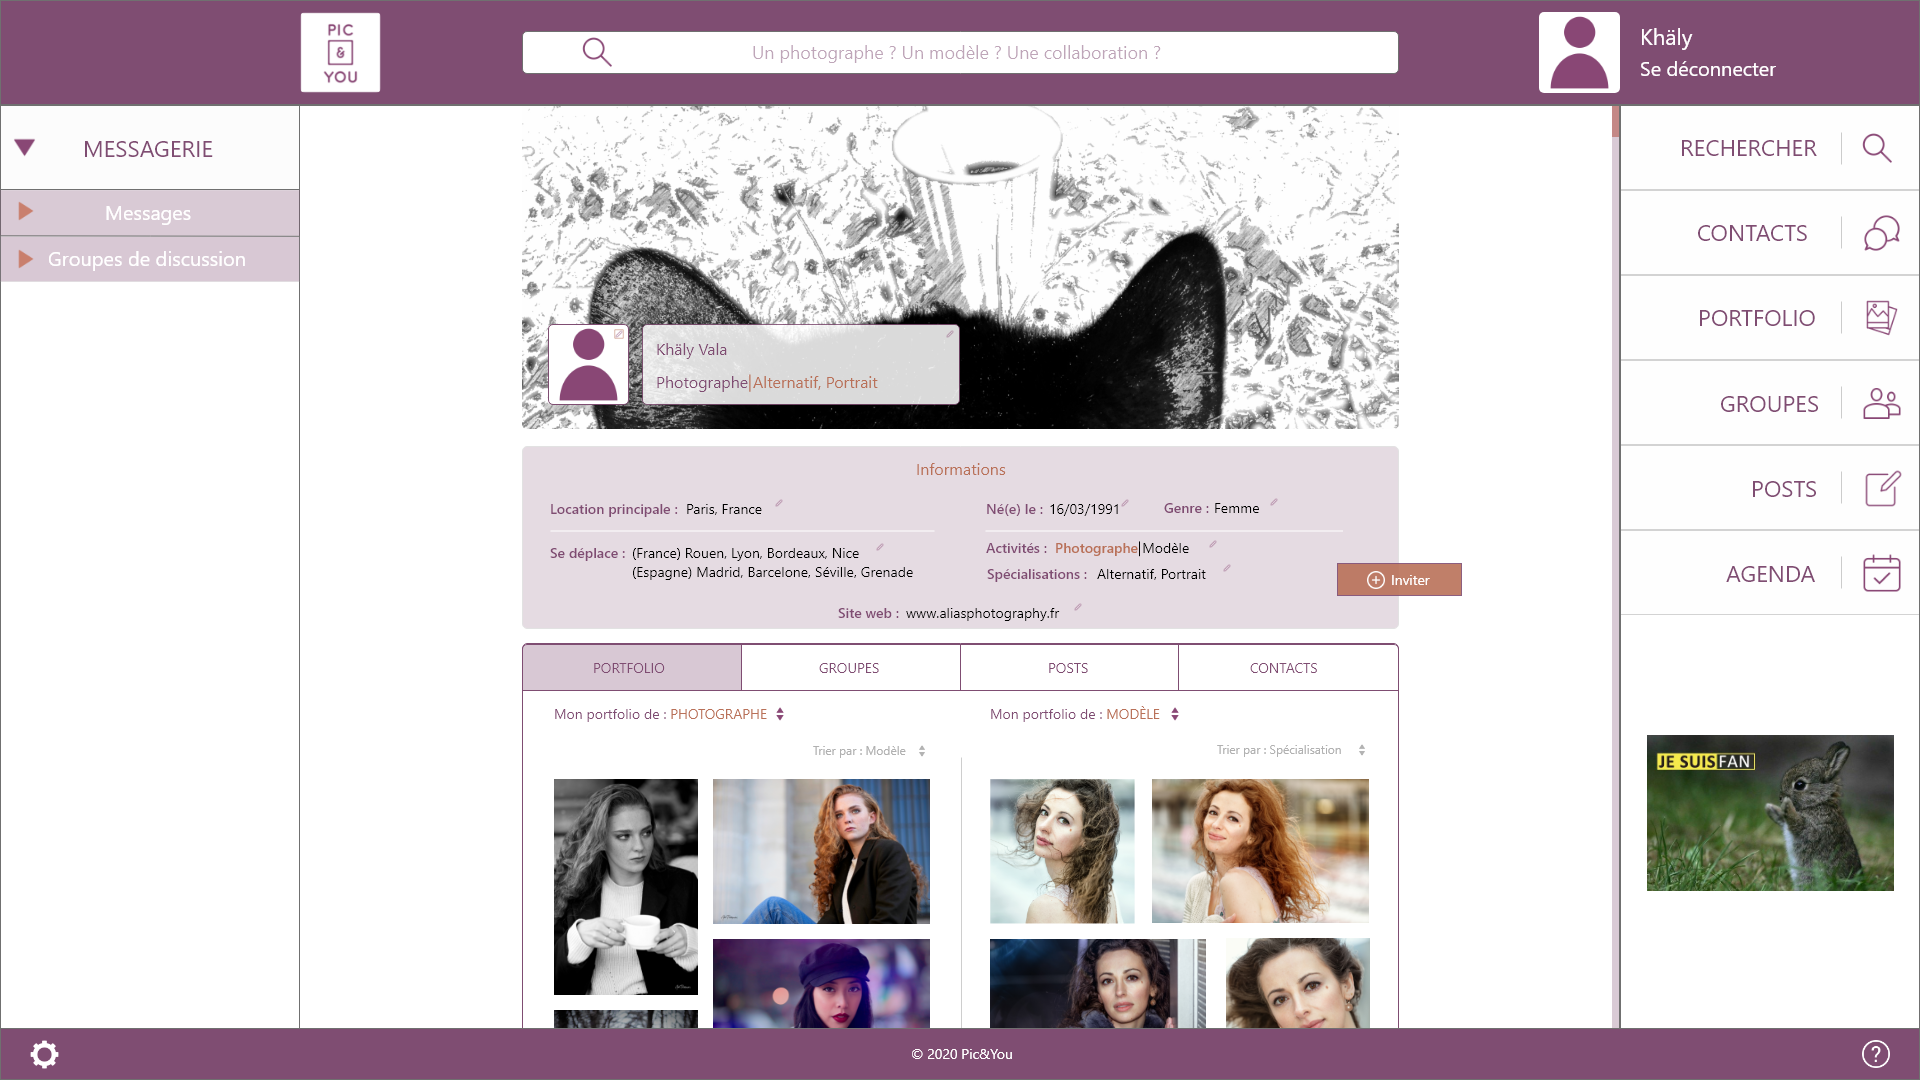
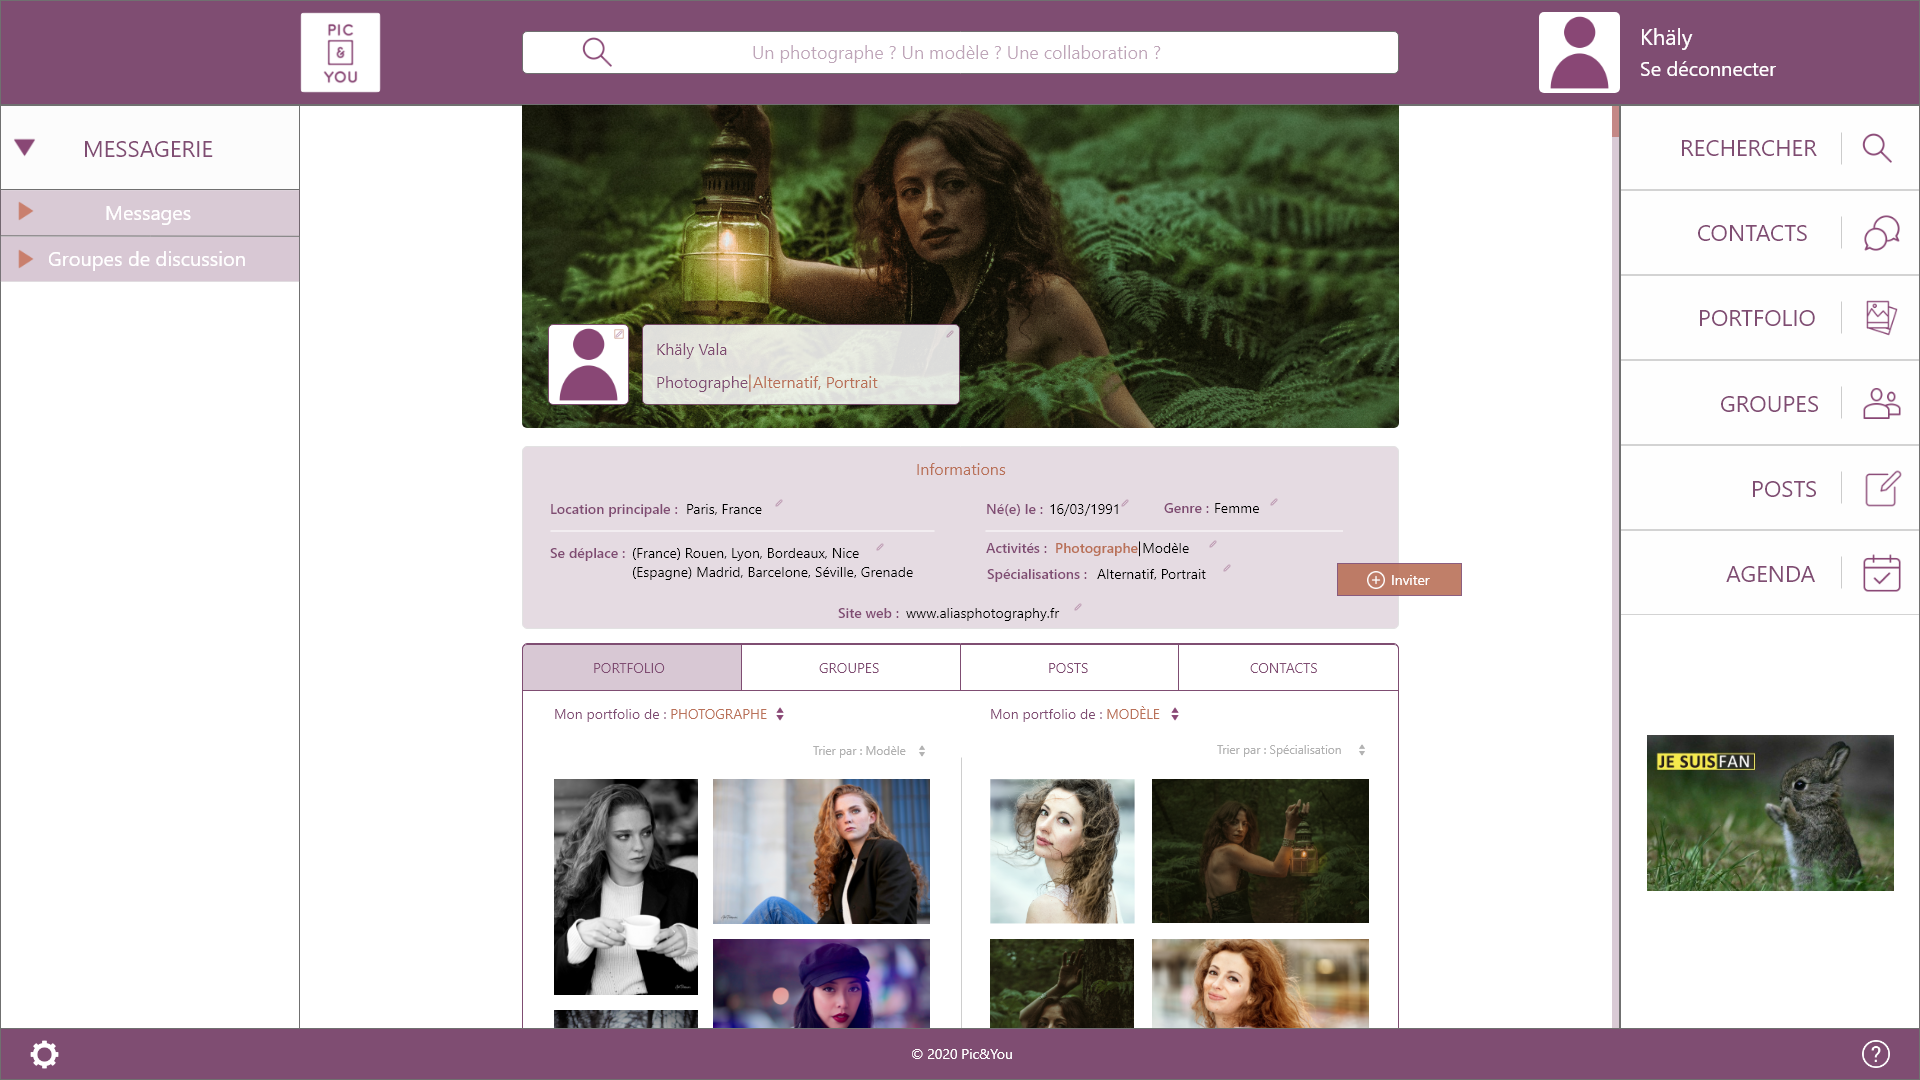
modifs maquettes

Changed region(s): [[0.25, 0.0917, 0.75, 0.3972], [0.5, 0.7028, 0.7188, 0.9778]]

diff --git a/src/app/plateforme/plateforme.component.html b/src/app/plateforme/plateforme.component.html
@@ -60,7 +60,7 @@
   <img src="../../assets/visuels/pictos/contact.png" class="picto-src">
 
   <p style="color: var(--secondary); font-weight: 650;">Alors, qu'en pensez-vous ?</p>
-    <p>Si vous souhaitez nous <b>donner votre avis</b>, ou nous laisser un message, <b><a href="contact">c'est ici ! 📧</a></b></p>
+    <p>Si vous souhaitez nous <b>donner votre avis</b>, écrivez-nous <b><a href="contact">un message ici ! 📧</a></b></p>
       <p style="font-size: 0.8rem;">Votre avis peut nous apporter beaucoup sur la conception du design de l'application. Nous souhaitons que Pic&You soit <b style="color: var(--secondary);">votre plateforme</b> de collaborations, <b style="color: var(--secondary);">à votre image</b>.</p>
     <p>Si vous souhaitez <b>soutenir la mise en production</b> de l'application, <b><a href="soutien">rendez-vous sur cette page 🧡</a></b></p>
 </div>

diff --git a/src/app/maquette-interactive/maquette-interactive.component.html b/src/app/maquette-interactive/maquette-interactive.component.html
@@ -11,7 +11,7 @@
 
   <h6>Version Desktop</h6>
     <div class="maquette-container">
-      <iframe class="iframe" width="800" height="450" src="https://xd.adobe.com/embed/647146ae-6a17-4104-6f79-f7fb0097e8d1-1240/?fullscreen" frameborder="0" allowfullscreen></iframe>
+      <iframe class="iframe" width="800" height="450" src="https://xd.adobe.com/embed/94374e2a-7d58-45b1-4e42-019f8eff9c5b-e206/?fullscreen" frameborder="0" allowfullscreen></iframe>
     </div>
 
   <br>
@@ -29,5 +29,11 @@
             <p style="text-align: right; font-weight: bold;">👉🏻 Je laisse mon avis !</p>
     </div>
   </a>
+
+  <br>
+
+  <div style="text-align: center;">
+    <p>Si vous souhaitez <b>soutenir la mise en production</b> de l'application, <b><a href="soutien">rendez-vous sur cette page ☕</a></b></p>
+  </div>
 
 </div>
